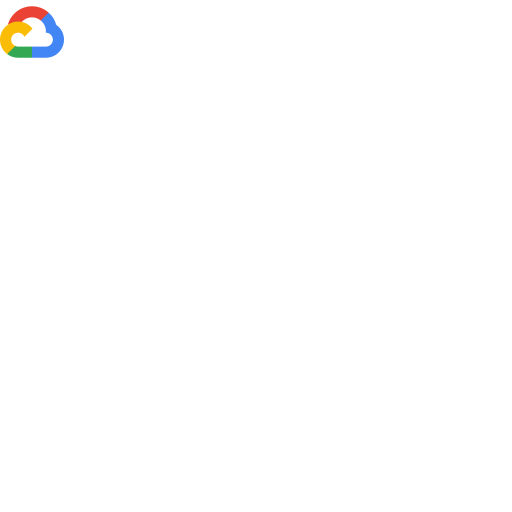
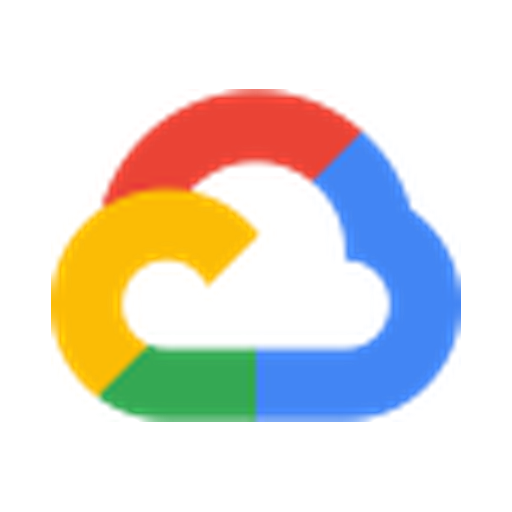
feat: improve TechStack particle distribution and heading layout
- Add edge-biased drift targets and center avoidance to prevent logo clustering
- Add heading exclusion zone so logos don't overlap "MY TECHSTACK" text
- Increase separation force between logos for better spacing
- Move heading to top of section for cleaner layout
- Fix GCP logo — crop and center the cloud icon (was tiny in corner)
- Reduce constellation line opacity

diff --git a/src/components/TechStack.tsx b/src/components/TechStack.tsx
@@ -31,16 +31,39 @@ const TECH_NAMES = [
 const CONFIG = {
   repulsionStrength: 0.075,
   repulsionRadius: 5.0,
-  separationStrength: 0.02,
-  separationRadius: 2.5,
+  separationStrength: 0.1,
+  separationRadius: 4.5,
+  centerAvoidance: 0.008,
   damping: 0.8,
   driftSpeed: 0.004,
   driftReassignThreshold: 1.5,
   maxSpeed: 0.05,
   connectionDistance: 5.5,
-  connectionOpacity: 0.18,
+  connectionOpacity: 0.0225,
   logoSize: 1.3,
+  // Exclusion zone for "MY TECHSTACK" heading (3D coords at z=0)
+  // Camera z=18, fov=38 → visible Y ±6.2. Heading at top:10px ≈ Y 5.0–6.2
+  // Add logo-size buffer around the text
+  headingZone: { xMin: -5.5, xMax: 5.5, yMin: 4.0, yMax: 6.2 },
+  headingAvoidance: 0.08,
 };
+
+// Generate a drift target biased toward edges, avoiding the heading zone
+function randomEdgeBiasedTarget(): THREE.Vector3 {
+  const hz = CONFIG.headingZone;
+  let x: number, y: number;
+  let attempts = 0;
+  do {
+    const angle = Math.random() * Math.PI * 2;
+    const radiusX = 2.5 + Math.random() * 3.5;
+    const radiusY = 1.5 + Math.random() * 2.0;
+    x = Math.cos(angle) * radiusX;
+    y = Math.sin(angle) * radiusY;
+    attempts++;
+    if (attempts > 20) break; // Avoid infinite loop; force will push it out
+  } while (x > hz.xMin && x < hz.xMax && y > hz.yMin && y < hz.yMax);
+  return new THREE.Vector3(x, y, THREE.MathUtils.randFloatSpread(2));
+}
 
 interface Particle {
   position: THREE.Vector3;
@@ -52,20 +75,26 @@ function useParticles(count: number): React.MutableRefObject<Particle[]> {
   const particles = useRef<Particle[]>([]);
 
   useMemo(() => {
-    // Visible area at z=0 with camera at z=18, fov=38: roughly ±6 X, ±3.5 Y
-    particles.current = Array.from({ length: count }, () => ({
-      position: new THREE.Vector3(
-        THREE.MathUtils.randFloatSpread(12),
-        THREE.MathUtils.randFloatSpread(7),
-        THREE.MathUtils.randFloatSpread(2),
-      ),
-      velocity: new THREE.Vector3(),
-      driftTarget: new THREE.Vector3(
-        THREE.MathUtils.randFloatSpread(12),
-        THREE.MathUtils.randFloatSpread(7),
-        THREE.MathUtils.randFloatSpread(2),
-      ),
-    }));
+    // Distribute logos evenly, avoiding the heading zone (Y 1.8–5.2)
+    const hz = CONFIG.headingZone;
+    particles.current = Array.from({ length: count }, (_, i) => {
+      let x: number, y: number;
+      let attempts = 0;
+      do {
+        const angle = (i / count) * Math.PI * 2 + Math.random() * 0.3;
+        const rx = 3.0 + Math.random() * 3.0;
+        const ry = 2.0 + Math.random() * 2.5;
+        x = Math.cos(angle) * rx;
+        y = Math.sin(angle) * ry;
+        attempts++;
+        if (attempts > 20) break;
+      } while (x > hz.xMin && x < hz.xMax && y > hz.yMin && y < hz.yMax);
+      return {
+        position: new THREE.Vector3(x, y, THREE.MathUtils.randFloatSpread(2)),
+        velocity: new THREE.Vector3(),
+        driftTarget: randomEdgeBiasedTarget(),
+      };
+    });
   }, [count]);
 
   return particles;
@@ -118,11 +147,41 @@ function SimulationLoop({
       p.velocity.add(tempVec);
 
       if (p.position.distanceTo(p.driftTarget) < CONFIG.driftReassignThreshold) {
-        p.driftTarget.set(
-          THREE.MathUtils.randFloatSpread(12),
-          THREE.MathUtils.randFloatSpread(7),
-          THREE.MathUtils.randFloatSpread(2),
-        );
+        const t = randomEdgeBiasedTarget();
+        p.driftTarget.copy(t);
+      }
+
+      // 1b. Gentle push away from center to prevent clustering
+      const centerDist = Math.sqrt(p.position.x * p.position.x + p.position.y * p.position.y);
+      if (centerDist < 4.5 && centerDist > 0.01) {
+        const avoidStr = CONFIG.centerAvoidance * (1 - centerDist / 4.5) * delta * 60;
+        tempVec.set(p.position.x, p.position.y, 0).normalize().multiplyScalar(avoidStr);
+        p.velocity.add(tempVec);
+      }
+
+      // 1c. Push logos away from heading text zone
+      const hz = CONFIG.headingZone;
+      if (
+        p.position.x > hz.xMin && p.position.x < hz.xMax &&
+        p.position.y > hz.yMin && p.position.y < hz.yMax
+      ) {
+        // Find nearest edge and push toward it
+        const distToTop = hz.yMax - p.position.y;
+        const distToBottom = p.position.y - hz.yMin;
+        const distToLeft = p.position.x - hz.xMin;
+        const distToRight = hz.xMax - p.position.x;
+        const minDist = Math.min(distToTop, distToBottom, distToLeft, distToRight);
+        if (minDist === distToTop) {
+          tempVec.set(0, 1, 0);
+        } else if (minDist === distToBottom) {
+          tempVec.set(0, -1, 0);
+        } else if (minDist === distToLeft) {
+          tempVec.set(-1, 0, 0);
+        } else {
+          tempVec.set(1, 0, 0);
+        }
+        tempVec.multiplyScalar(CONFIG.headingAvoidance * delta * 60);
+        p.velocity.add(tempVec);
       }
 
       // 2. Repulsion — push away from cursor when nearby
@@ -282,7 +341,7 @@ function ConstellationLines({
   return (
     <lineSegments geometry={geometry}>
       <lineBasicMaterial
-        color="#6688ff"
+        color="#ffffff"
         transparent
         opacity={CONFIG.connectionOpacity}
         depthWrite={false}

diff --git a/src/index.css b/src/index.css
@@ -126,7 +126,7 @@ body {
   text-align: center;
   position: absolute;
   width: 100%;
-  top: 120px;
+  top: 0;
   left: 0;
   font-weight: 400;
   text-transform: uppercase;
